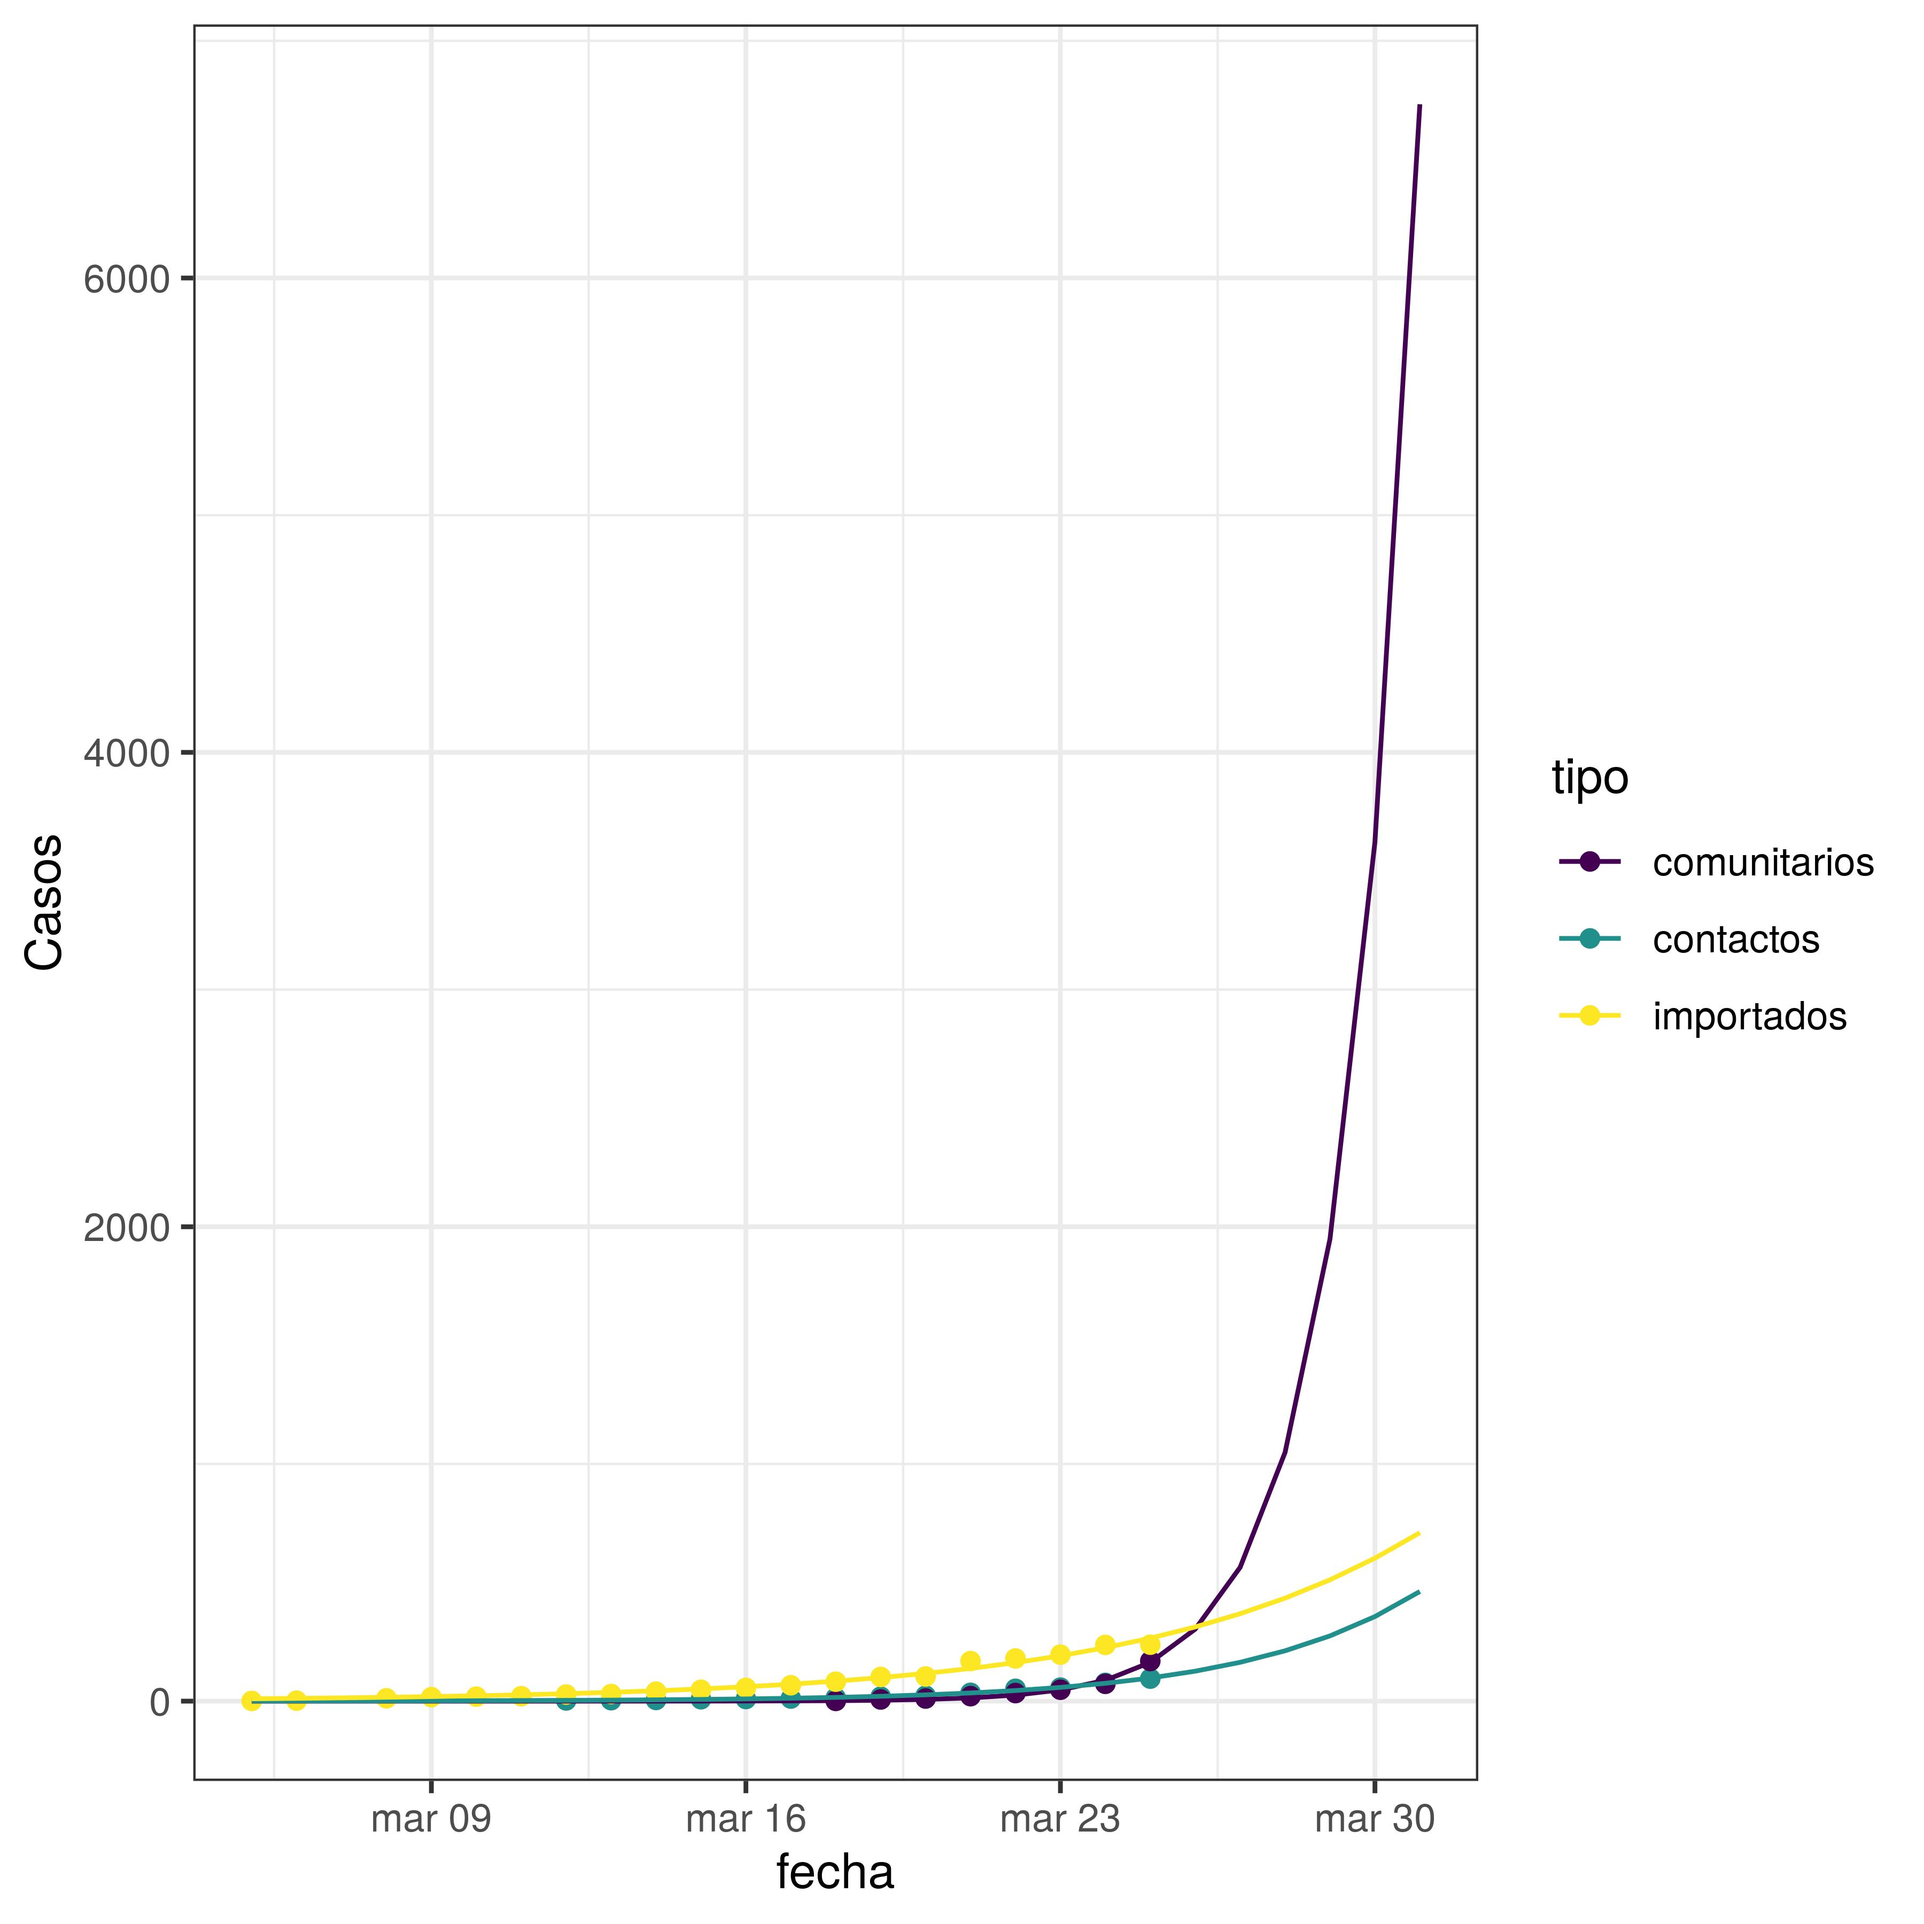
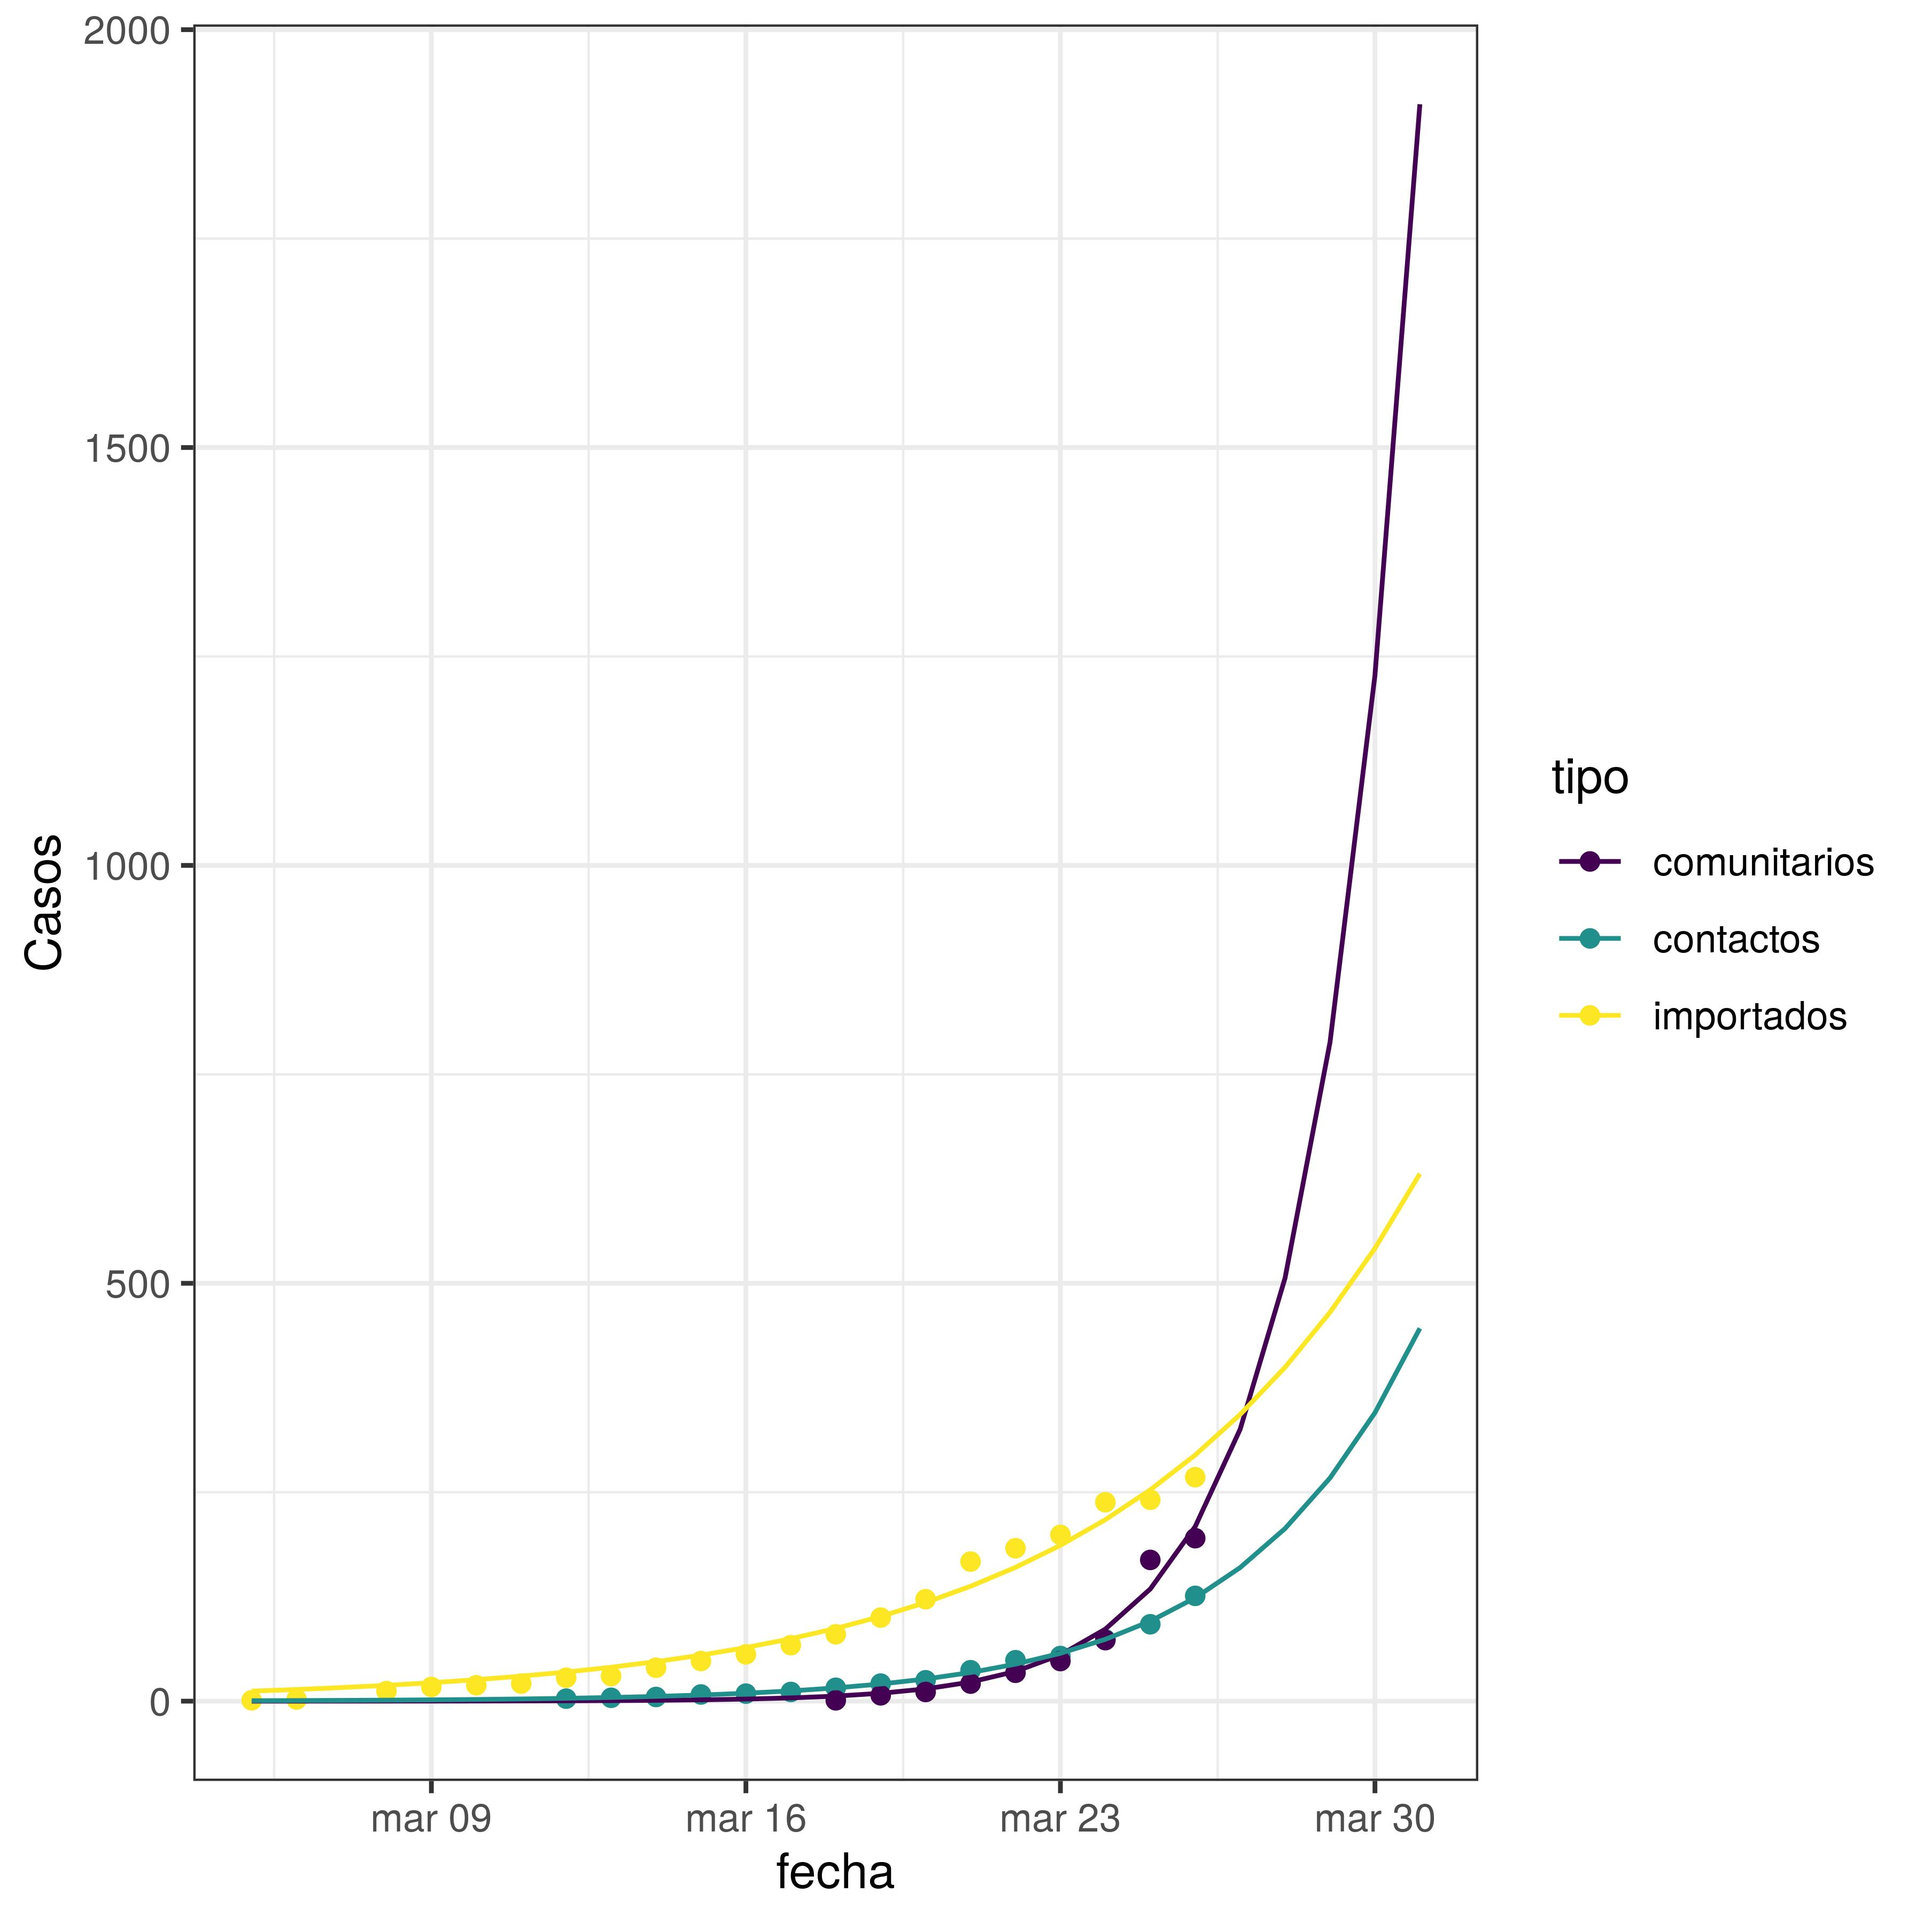
Actualizacion 26/03/2020

diff --git a/README.md b/README.md
@@ -6,15 +6,19 @@
 
 		- fecha: fecha del informe
 		- casos: casos totales en argentina acumulados
+		- casosdia: casos totales en argentina por día
 		- fallecido: muertes acumuladas
 		- CABA: casos en CABA acumulados
-		- recuperados: casos recuperados no están informados en los reportes por lo son tomados de diversas fuentes por lo que no son confiables.
+		- recuperados: casos recuperados solo informados algunos dias, no siempre están en los reportes por lo son tomados de diversas fuentes.
 		- contactos: casos por transmisión de contactos estrechos de casos importados, acumulados
 		- comunitarios: casos referidos como en estudio epidemiológico o sospechoso de comunitarios, NO ACUMULADOS! 
+		- testeados: casos negativos por laboratorio
+		- descartados: casos descartados por epidemiología
 
 
 - [coronavirus.r](coronavirus.r) Código R para estimación de crecimiento, por ahora exponencial. El código usa un ajuste por cuadrados mínimos no-lineales y las funciones del paquete tidyverse para hacer ajustes por tipo.   
 
+![](coronaArTotalesLog.jpg)
 
 ![](coronaArComparacionLog.jpg)
 
